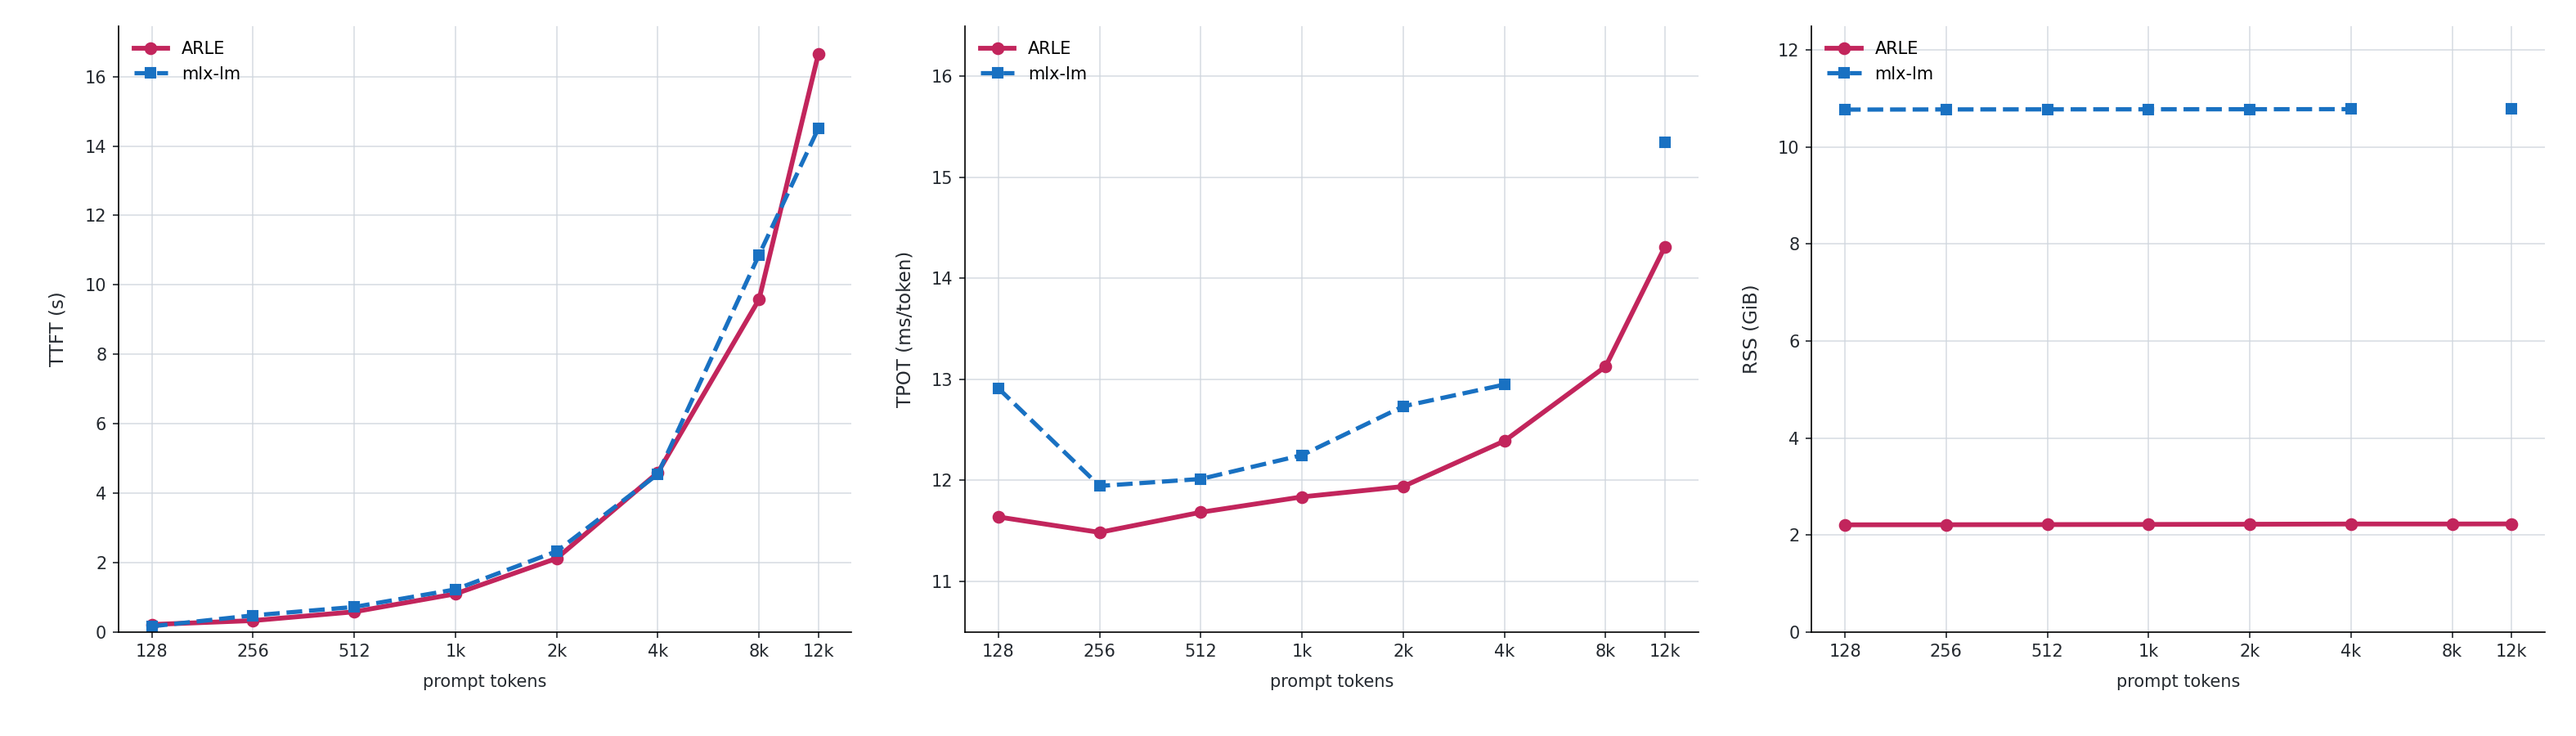
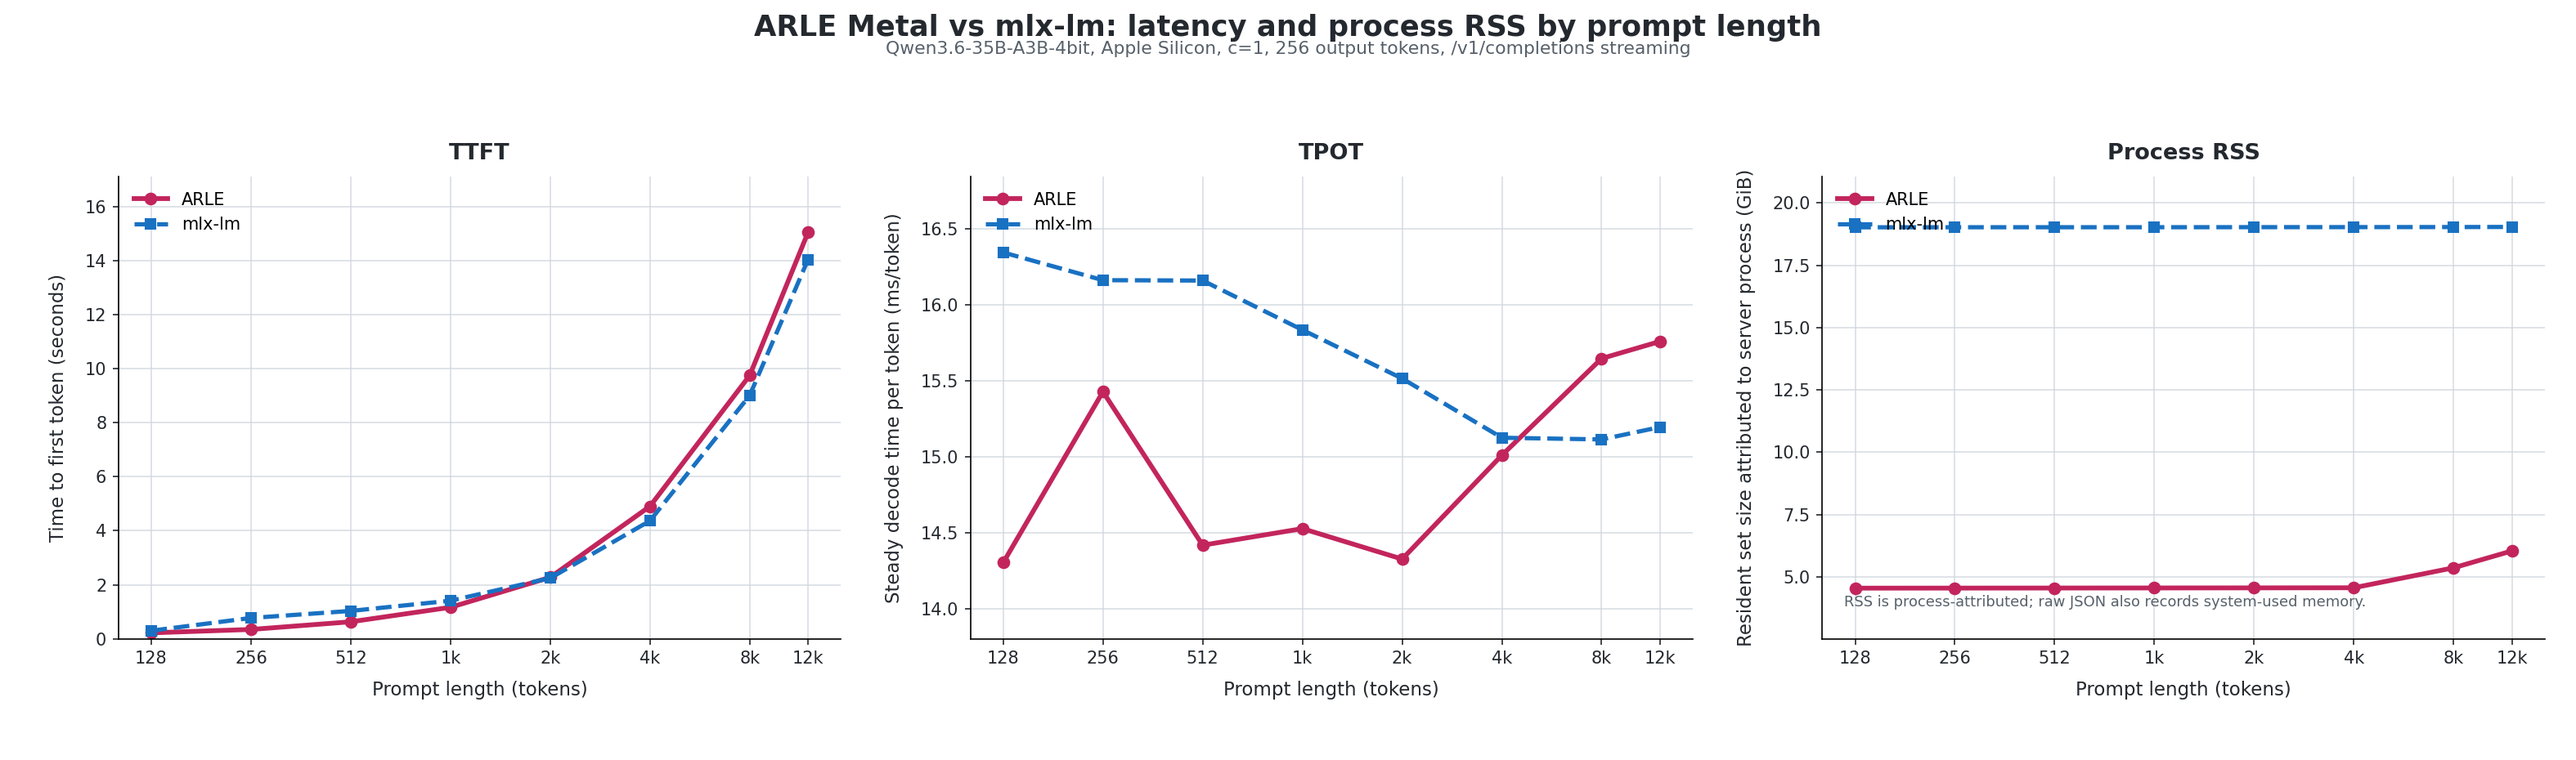
docs(metal): refresh README benchmark retest

diff --git a/docs/experience/wins/2026-06-01-metal-low-rss-analysis.md b/docs/experience/wins/2026-06-01-metal-low-rss-analysis.md
@@ -1,10 +1,11 @@
-# Metal 2.2 GiB RSS Analysis
+# Metal Low Process RSS Analysis
 
 ## TL;DR
 
-The README chart's **2.2 GiB RSS** is not saying the 35B-A3B model only needs
-2.2 GiB of memory, and it is not saying weights are unloaded. It is the
-process-attributed RSS sampled during streaming after ARLE stopped pinning MLX
+The earlier README sweep showed about **2.2 GiB RSS**; the full retest now used
+for the README chart shows **4.5-6.0 GiB RSS**. Neither number says the
+35B-A3B model only needs that much memory, and neither says weights are
+unloaded. Both are process-attributed RSS samples after ARLE stopped pinning MLX
 Metal pages by default.
 
 The model is still loaded and addressable:
@@ -21,7 +22,7 @@ miracle.
 
 ## What RSS Measured
 
-The README sweep sampled:
+The README sweeps sampled:
 
 ```python
 psutil.Process(pid).memory_info().rss
@@ -40,9 +41,8 @@ Important distinction:
 | Process RSS | Pages currently attributed to the Unix process by the kernel. |
 | System used | Host-wide memory pressure, including pages not cleanly attributable to this process RSS sample. |
 
-The README chart uses process RSS because that was the regression users saw: the
-ARLE process looked 8-10 GiB larger than mlx-lm. It is not a replacement for a
-full `vmmap` / MLX allocator / memory-pressure trace.
+The README chart uses process RSS because that was the regression users saw. It
+is not a replacement for a full `vmmap` / MLX allocator / memory-pressure trace.
 
 ## Evidence
 
@@ -88,22 +88,22 @@ The default run has the same model load and warmup, but no wired-limit log.
 That isolates the old ~18-20 GiB process RSS to the residency policy, not to a
 second copy of the weights.
 
-### 3. The README sweep stayed flat with prompt length
+### 3. The full README retest stayed low with prompt length
 
 ARLE default, c=1, output 256:
 
 | input | TTFT | TPOT | process RSS | system used |
 |---:|---:|---:|---:|---:|
-| 128 | 0.21 s | 11.6 ms | 2.21 GiB | 32.11 GiB |
-| 4k | 4.59 s | 12.4 ms | 2.23 GiB | 33.70 GiB |
-| 8k | 9.58 s | 13.1 ms | 2.23 GiB | 33.58 GiB |
-| 12k | 16.64 s | 14.3 ms | 2.23 GiB | 32.96 GiB |
+| 128 | 0.22 s | 14.3 ms | 4.54 GiB | 32.82 GiB |
+| 4k | 4.90 s | 15.0 ms | 4.56 GiB | 35.09 GiB |
+| 8k | 9.75 s | 15.6 ms | 5.36 GiB | 33.88 GiB |
+| 12k | 15.04 s | 15.8 ms | 6.04 GiB | 33.36 GiB |
 
-The flat RSS curve is expected once weights are not wired: c=1 prefill does not
-retain full activations, and the retained KV for 256 generated tokens is small
-relative to model weight files. Prompt length moves TTFT and some scratch /
-system-used pressure, but it does not force all mmap-backed model pages to be
-charged to process RSS.
+The RSS curve grows with long prompts but stays far below the wired-weight
+footprint. c=1 prefill does not retain full activations, and the retained KV for
+256 generated tokens is small relative to model weight files. Prompt length
+moves TTFT and some scratch / system-used pressure, but it does not force all
+mmap-backed model pages to be charged to process RSS.
 
 ## Why Inference Still Works
 
@@ -125,12 +125,12 @@ Qwen3.6 also helps this RSS shape:
 This is why the process can serve a 35B-A3B model while the process RSS sample
 is much smaller than the on-disk model size.
 
-## Why mlx-lm Shows About 10.8 GiB RSS
+## Why mlx-lm Shows About 19 GiB RSS
 
 mlx-lm and ARLE both sit on Apple unified memory, but they do not expose the same
-process RSS shape. In the README run, mlx-lm's process RSS stayed around
-10.77-10.79 GiB while ARLE default stayed around 2.21-2.23 GiB. The system-used
-numbers are much closer than the process RSS numbers.
+process RSS shape. In the full README retest, mlx-lm's process RSS stayed
+around 19.03-19.04 GiB while ARLE default stayed around 4.54-6.04 GiB. The
+system-used numbers are closer than the process RSS numbers.
 
 That means the chart is best read as:
 
@@ -140,7 +140,7 @@ That means the chart is best read as:
 
 It should not be read as:
 
-> ARLE has proven the whole model consumes only 2.2 GiB total memory.
+> ARLE has proven the whole model consumes only 4.5-6.0 GiB total memory.
 
 ## Tradeoff
 
@@ -173,8 +173,8 @@ memory-proof would add:
 
 Until then, the precise claim is:
 
-> In the README sweep, ARLE's default process RSS during streaming is about
-> 2.2 GiB because model weights are loaded through MLX mmap-backed unified-memory
-> tensors and are no longer pinned/wired into process-attributed RSS by default.
-> The model is still loaded; the number is a residency/accounting measurement,
-> not total model memory.
+> In the full README retest, ARLE's default process RSS during streaming is
+> about 4.5-6.0 GiB because model weights are loaded through MLX mmap-backed
+> unified-memory tensors and are no longer pinned/wired into
+> process-attributed RSS by default. The model is still loaded; the number is a
+> residency/accounting measurement, not total model memory.

diff --git a/docs/experience/wins/2026-06-01-readme-metal-vs-mlxlm-ttft-rss.md b/docs/experience/wins/2026-06-01-readme-metal-vs-mlxlm-ttft-rss.md
@@ -11,10 +11,14 @@ axis, steady TPOT for decode parity, and process RSS as prompt length grows.
 
 - Model: `mlx-community/Qwen3.6-35B-A3B-4bit`.
 - Host: Apple Silicon, 48 GB unified memory.
-- Shape: c=1, OpenAI streaming completions, `max_tokens=256`, temperature 0.
-- ARLE: `target/release/metal_serve --max-running-requests 1
-  --max-batch-tokens 4096`, default no-wired mode.
-- mlx-lm: `mlx_lm server`, same model and host.
+- Shape: c=1, `/v1/completions` streaming, `max_tokens=256`, temperature 0.
+- Prompt: stable completion prompt for both runtimes; the 8k/12k points use a
+  paragraph request so mlx-lm does not early-stop.
+- ARLE: `target/release/metal_serve --model-path
+  mlx-community/Qwen3.6-35B-A3B-4bit --port 8915 --max-running-requests 1
+  --max-batch-tokens 4096`.
+- mlx-lm: `/opt/homebrew/opt/python@3.11/bin/python3.11 -m mlx_lm server
+  --model mlx-community/Qwen3.6-35B-A3B-4bit --port 8916 --host 127.0.0.1`.
 - RSS: process RSS sampled during streaming. On macOS unified memory,
   non-wired Metal pages may not all appear as process RSS; the raw JSON also
   records system-used memory.
@@ -32,29 +36,31 @@ Low-RSS analysis:
 
 | input | ARLE TTFT | mlx TTFT | ARLE TPOT | mlx TPOT | ARLE RSS | mlx RSS |
 |---:|---:|---:|---:|---:|---:|---:|
-| 128 | 0.21 s | 0.16 s | 11.6 ms | 12.9 ms | 2.21 GiB | 10.77 GiB |
-| 256 | 0.33 s | 0.48 s | 11.5 ms | 11.9 ms | 2.21 GiB | 10.77 GiB |
-| 512 | 0.58 s | 0.72 s | 11.7 ms | 12.0 ms | 2.21 GiB | 10.78 GiB |
-| 1k | 1.10 s | 1.23 s | 11.8 ms | 12.2 ms | 2.22 GiB | 10.78 GiB |
-| 2k | 2.12 s | 2.32 s | 11.9 ms | 12.7 ms | 2.22 GiB | 10.78 GiB |
-| 4k | 4.59 s | 4.55 s | 12.4 ms | 12.9 ms | 2.23 GiB | 10.78 GiB |
-| 8k | 9.58 s | 10.86 s | 13.1 ms | - | 2.23 GiB | - |
-| 12k | 16.64 s | 14.50 s | 14.3 ms | 15.3 ms | 2.23 GiB | 10.79 GiB |
+| 128 | 0.22 s | 0.30 s | 14.3 ms | 16.3 ms | 4.54 GiB | 19.03 GiB |
+| 256 | 0.34 s | 0.77 s | 15.4 ms | 16.2 ms | 4.54 GiB | 19.03 GiB |
+| 512 | 0.63 s | 1.03 s | 14.4 ms | 16.2 ms | 4.55 GiB | 19.03 GiB |
+| 1k | 1.16 s | 1.41 s | 14.5 ms | 15.8 ms | 4.55 GiB | 19.03 GiB |
+| 2k | 2.27 s | 2.24 s | 14.3 ms | 15.5 ms | 4.55 GiB | 19.03 GiB |
+| 4k | 4.90 s | 4.37 s | 15.0 ms | 15.1 ms | 4.56 GiB | 19.03 GiB |
+| 8k | 9.75 s | 9.01 s | 15.6 ms | 15.1 ms | 5.36 GiB | 19.04 GiB |
+| 12k | 15.04 s | 14.04 s | 15.8 ms | 15.2 ms | 6.04 GiB | 19.04 GiB |
 
 ## Problems
 
-- The same-prompt mlx-lm 8k request emitted only one non-empty text chunk, so
-  TPOT is not valid there. The README plot uses that retry only for TTFT and
-  leaves mlx-lm 8k RSS/TPOT blank instead of fabricating a point.
-- RSS is a process-attributed metric. The default no-wired ARLE curve is useful
-  for the user-visible RSS regression, but it is not a complete unified-memory
-  pressure model; use the raw `system_used` fields for that follow-up.
+- The first prompt form made mlx-lm early-stop at 8k. The final figure uses one
+  full retest with a stable prompt family, so every ARLE and mlx-lm point is
+  present and connected.
+- RSS is process-attributed. It is the right metric for the visible process-RSS
+  regression, but not a full unified-memory pressure model; the raw JSON keeps
+  `system_used_gb` for that follow-up.
 
 ## Learnings
 
-- The default memory issue was weight residency, not decode scaling. In the
-  README-facing default configuration, nominal TTFT and TPOT stay at mlx-lm
-  parity while process RSS no longer carries the previous wired footprint.
+- TTFT has the same shape in both runtimes: ARLE is faster on short prompts,
+  mlx-lm is slightly faster at 4k+ in this retest.
+- Decode is effectively parity: both stay around 14-16 ms/token.
+- The visible difference is process RSS: ARLE is about 4.5-6.0 GiB across the
+  sweep, while mlx-lm stays around 19.0 GiB.
 - The README figure should stay focused on the user-facing comparison: ARLE vs
   mlx-lm. Internal residency tradeoffs belong in the dedicated memory-fix entry.
 
